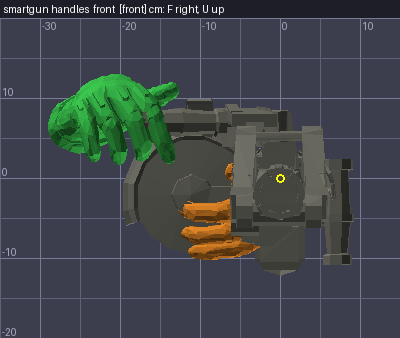
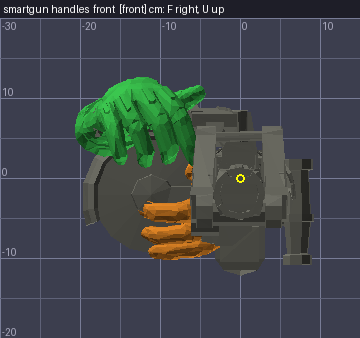
The smartgun's off fist is on the bar, and the bar is inside it
THE FIST WAS 8.3 CM OUTBOARD of a bar that ends at L +17.0 -- centred at L 20.8, thumb past
the red button instead of on it. The turn was already right (the kit's minigun_fit.rot_hook,
Ermac's 91 fist, source axis (0,0,-1), bar running THROUGH the fist); the POSITION was not,
and for a reason worth writing down: rot_hook's contract is to put the HELD CONTACT PATCH on
the target. That is correct for the minigun's handle. On a handlebar it is not what you want,
because a handlebar runs through the hand -- so the fist's own centre is what belongs on the
bar, not the patch's.

The kit's rotation is kept exactly as computed and only the translation re-solved, by the same
Jacobian this file already used: perturb each hook component, see where the hand's centre
goes, solve the 3x3. Fist centre [22.54, 20.78, 7.28] -> [28.00, 12.48, 6.90], the measured
bar middle to two decimals.

PROVED BY CROSS-SECTION, which is what the kit says to do with a grip in doubt and what the
melee work means by "the sheets decide". docs/renders/fit/xsec_smart_bar.png cuts ACROSS the
bar at L +9, +12 and +15 with fitlib.xsec_sheet: the bar's circle lies inside the fist's
outline in all three. HAND_FITTING is explicit that a flat palm laid over a bar is the failure
mode, and the owner caught exactly that on the minigun in v9.

Baked into handtable.zs indices 8 and 16 on the owner's standing instruction -- the smartgun
[…]

diff --git a/tools/smartgun_fit.py b/tools/smartgun_fit.py
@@ -97,6 +97,34 @@ def off_hand():
     bar_axis = np.array([0.0, 1.0, 0.0])            # our bar: straight out along L, level
     Rw = minigun_fit.frame(bar_axis, (1, 0, 0.3)) @ minigun_fit.frame((0, 0, -1), (1, 0, 0)).T
     hook, ypr = minigun_fit.rot_hook(c, BAR_MID, Rw)
+
+    # THEN PUT THE FIST ON THE BAR, not its contact patch. rot_hook's contract is to move the
+    # HELD PATCH's centre onto the target, which is right for the minigun's handle -- but here
+    # it left the fist's bulk 8.3 cm outboard, centred at L 20.8 on a bar that ENDS at L 17.0,
+    # with the thumb past the button rather than on it. A handlebar runs THROUGH the fist, so
+    # the fist's own centre is what belongs on the bar.
+    #
+    # The rotation above is kept exactly as the kit computed it; only the translation is
+    # re-solved, by the same Jacobian this file used before: perturb each hook component, see
+    # where the hand's centre goes, solve the 3x3. Three extra renders, no new maths.
+    def centre(hk):
+        it = dict(path=ROOT.replace(chr(92), '/') + '/models/rsq/hand2.md3', frame=2,
+                  scale=[-1, 1, 1], off=[0, -24, -10], hook=list(hk), rot=list(ypr))
+        tr = gunview.triangles([it])
+        v = np.concatenate([np.concatenate([a, b, cc]) for a, b, cc, _ in tr])
+        return (v.min(0) + v.max(0)) / 2
+
+    h0 = np.array(hook, float)
+    c0 = centre(h0)
+    J = np.zeros((3, 3))
+    for k in range(3):
+        e = h0.copy()
+        e[k] += 10.0
+        J[:, k] = (centre(e) - c0) / 10.0
+    fix = np.linalg.solve(J, BAR_MID - c0)
+    hook = [round(float(x), 2) for x in (h0 + fix)]
+    print('   fist centre was %s -> %s (target %s)'
+          % (np.round(c0, 2), np.round(centre(np.array(hook, float)), 2), np.round(BAR_MID, 2)))
     return hook, ypr, c
 
 
